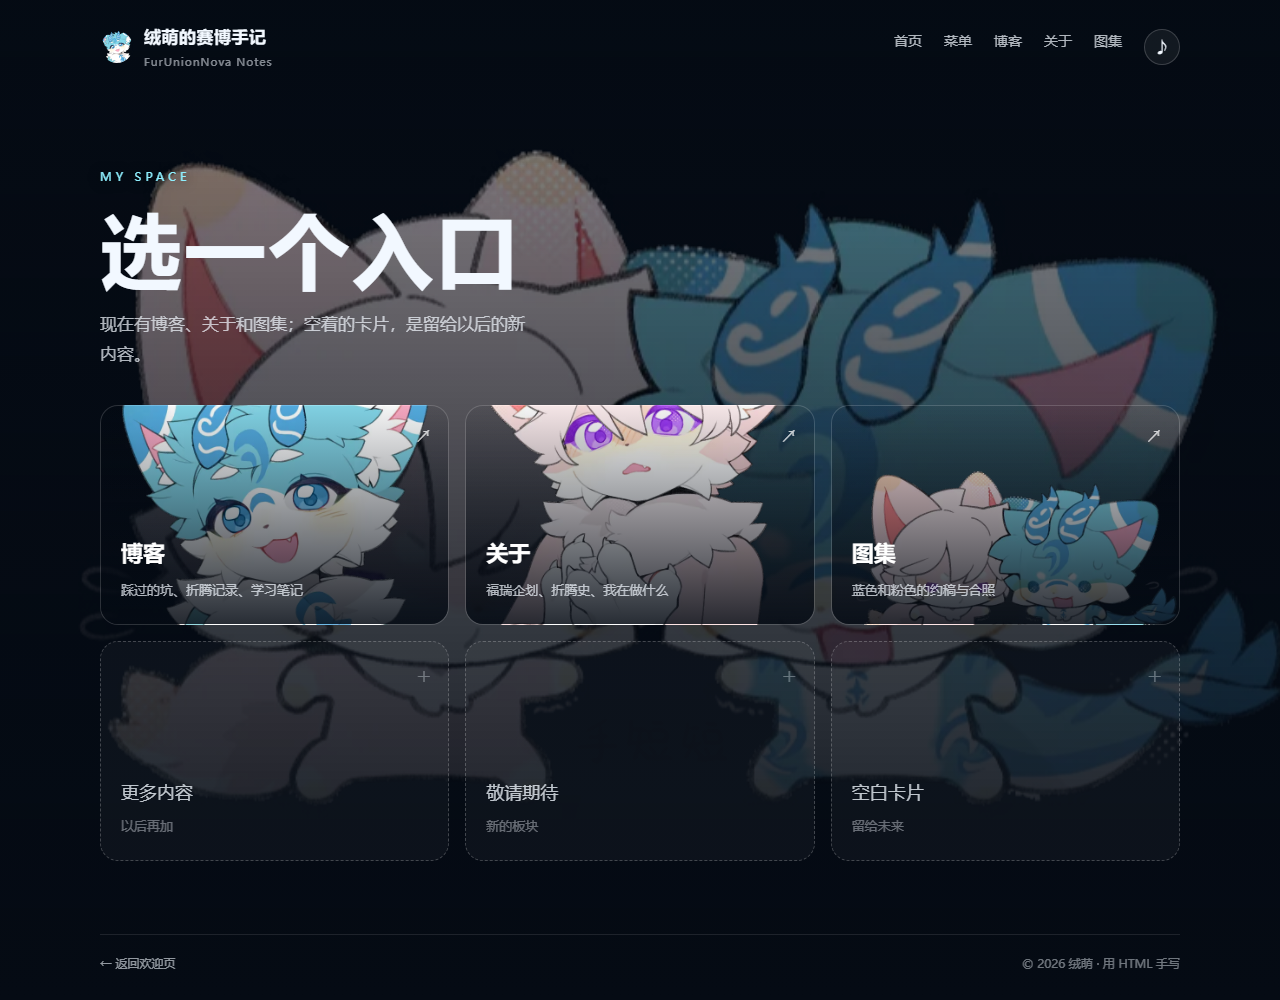
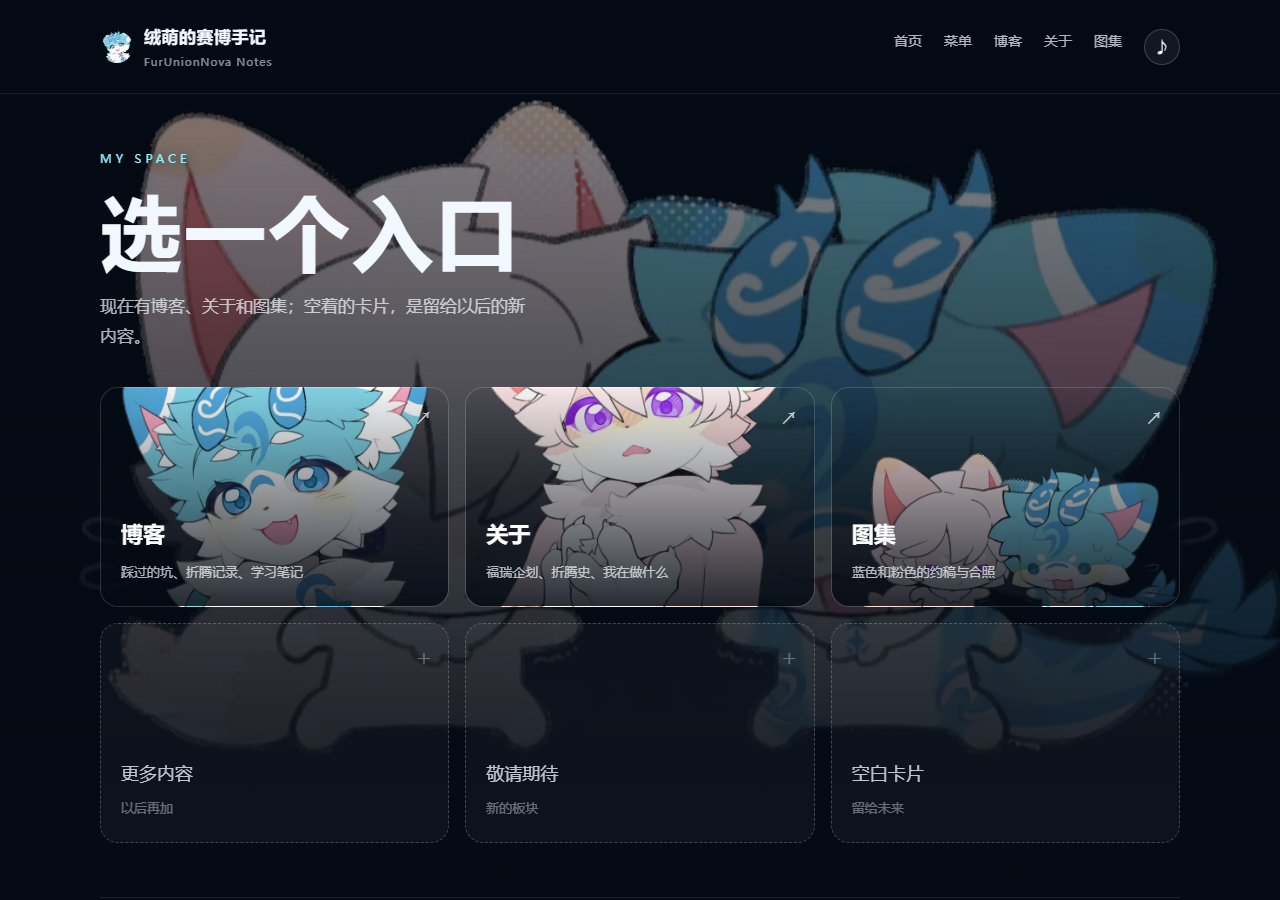
Fix mobile sticky header with full-width blur

diff --git a/assets/style.css b/assets/style.css
@@ -37,7 +37,6 @@ html {
 
 body {
   margin: 0;
-  overflow-x: hidden;
   background:
     radial-gradient(900px 500px at 15% -10%, rgba(94, 224, 255, .10), transparent 60%),
     radial-gradient(700px 420px at 100% 0%, rgba(139, 123, 255, .10), transparent 55%),
@@ -562,27 +561,16 @@ button { font: inherit; color: inherit; }
   position: sticky;
   top: 0;
   z-index: 60;
-  isolation: isolate;
-  width: min(var(--maxw), calc(100% - 40px));
-  margin: 0 auto;
+  width: 100%;
+  margin: 0;
   display: flex;
   align-items: center;
   justify-content: space-between;
-  padding: 22px 0;
-}
-.portal-head::before {
-  content: "";
-  position: absolute;
-  top: 0;
-  bottom: 0;
-  left: 50%;
-  width: 100vw;
-  transform: translateX(-50%);
-  background: rgba(5, 11, 20, .55);
-  -webkit-backdrop-filter: blur(14px);
-  backdrop-filter: blur(14px);
+  padding: 22px max(20px, calc((100% - var(--maxw)) / 2));
+  background: rgba(5, 11, 20, .58);
+  -webkit-backdrop-filter: blur(16px);
+  backdrop-filter: blur(16px);
   border-bottom: 1px solid rgba(255, 255, 255, .08);
-  z-index: -1;
 }
 .portal .brand { color: var(--p-text); }
 .portal .brand small { color: rgba(242, 248, 255, .55); }
@@ -813,28 +801,17 @@ button { font: inherit; color: inherit; }
   position: sticky;
   top: 0;
   z-index: 60;
-  isolation: isolate;
-  width: min(var(--maxw), calc(100% - 40px));
-  margin: 0 auto;
+  width: 100%;
+  margin: 0;
   display: flex;
   align-items: center;
   justify-content: space-between;
   gap: 16px;
-  padding: 22px 0;
-}
-.welcome-head::before {
-  content: "";
-  position: absolute;
-  top: 0;
-  bottom: 0;
-  left: 50%;
-  width: 100vw;
-  transform: translateX(-50%);
+  padding: 22px max(20px, calc((100% - var(--maxw)) / 2));
   background: rgba(5, 11, 20, .5);
-  -webkit-backdrop-filter: blur(14px);
-  backdrop-filter: blur(14px);
+  -webkit-backdrop-filter: blur(16px);
+  backdrop-filter: blur(16px);
   border-bottom: 1px solid rgba(255, 255, 255, .07);
-  z-index: -1;
 }
 .welcome .brand { color: #f2f8ff; }
 .welcome .brand small { color: rgba(242, 248, 255, .55); }
